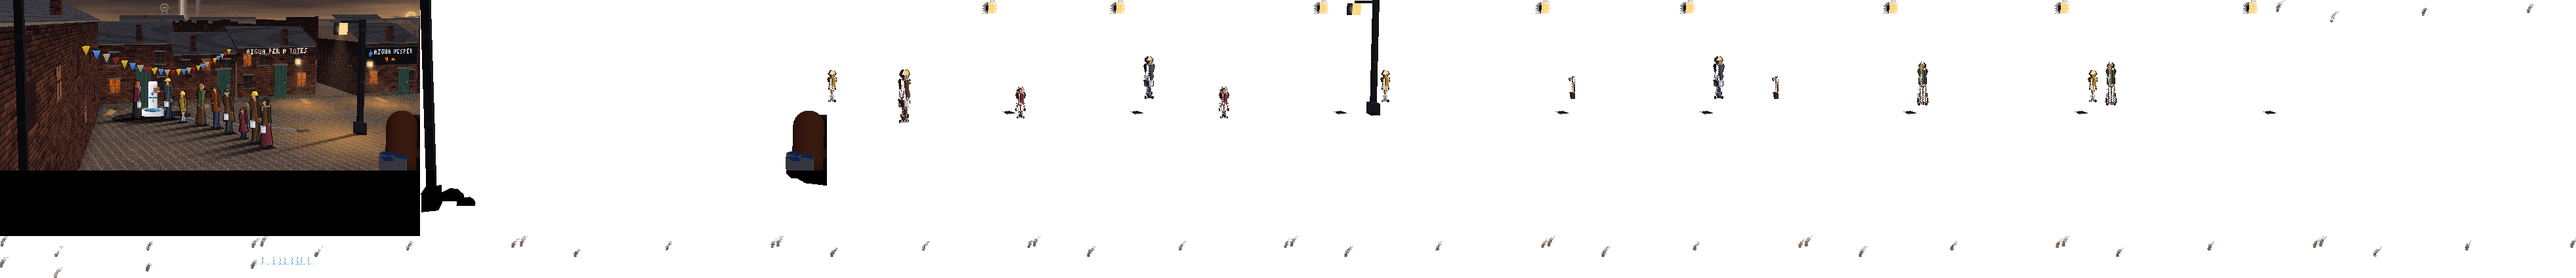
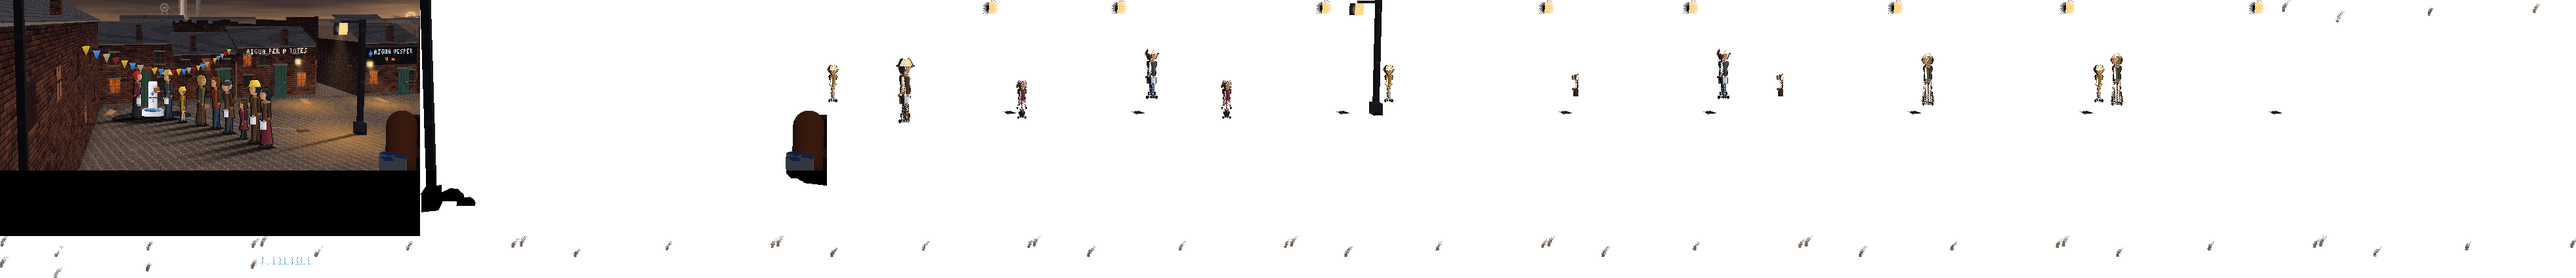
Aigua Verne: la cua dels postcrèdits, a la mida dels personatges
Els adults de la cua de la font feien 76–82 px i les criatures 52–58, amb el cap petit: al costat de la Rosa
(≈98) semblaven d'una altra escala. Ara els grans fan 93–99 i la canalla ≈0,7 d'un adult, amb el cap més gran i
el cos prim, com els personatges (cap/ample de persona_c); les ombres, una mica més estretes.

diff --git a/games/aigua-verne/adapters/benne/tools/hd640/rooms/postcredits.py b/games/aigua-verne/adapters/benne/tools/hd640/rooms/postcredits.py
@@ -348,16 +348,17 @@ def _lloc(i, n=8):
     return x, z
 
 
+# (a la mida dels personatges, que fan ≈98: els grans 93–99 i la canalla ≈0,7; el cap gran i el cos prim, com ells)
 CUA = [
-    (FONT[0] - 32, FONT[1] - 4, 76, 0, dict(tipus='dona', facing=1, hold='bidon'), {}),                 # omple la garrafa
-    (*_lloc(0), 81, 0, dict(tipus='miner', hold='bidon'), {3: dict(facing=1), 4: dict(facing=1)}),
-    (*_lloc(1), 58, 1, dict(tipus='nen', lamp=False), {1: dict(facing=1), 6: dict(facing=1), 7: dict(facing=1)}),
-    (*_lloc(2), 79, 1, dict(tipus='dona', facing=1), {5: dict(facing=-1), 6: dict(facing=-1)}),     # fa petar la xerrada
-    (*_lloc(3), 78, 2, dict(tipus='miner', cua=True, hold='butxaca'), {}),
-    (*_lloc(4), 77, 1, dict(tipus='vell', hold='bidon'), {2: dict(hold='got'), 3: dict(hold='got')}),
-    (*_lloc(5), 52, 0, dict(tipus='nena'), {0: dict(facing=1), 4: dict(facing=1)}),
-    (*_lloc(6), 82, 3, dict(tipus='miner', hold='bidon', lamp=False), {7: dict(facing=1)}),
-    (*_lloc(7), 77, 3, dict(tipus='dona', hold='bidon'), {}),
+    (FONT[0] - 32, FONT[1] - 4, 96, 0, dict(tipus='dona', facing=1, hold='bidon'), {}),                 # omple la garrafa
+    (*_lloc(0), 98, 0, dict(tipus='miner', hold='bidon'), {3: dict(facing=1), 4: dict(facing=1)}),
+    (*_lloc(1), 68, 1, dict(tipus='nen', lamp=False), {1: dict(facing=1), 6: dict(facing=1), 7: dict(facing=1)}),
+    (*_lloc(2), 95, 1, dict(tipus='dona', facing=1), {5: dict(facing=-1), 6: dict(facing=-1)}),     # fa petar la xerrada
+    (*_lloc(3), 96, 2, dict(tipus='miner', cua=True, hold='butxaca'), {}),
+    (*_lloc(4), 93, 1, dict(tipus='vell', hold='bidon'), {2: dict(hold='got'), 3: dict(hold='got')}),
+    (*_lloc(5), 64, 0, dict(tipus='nena'), {0: dict(facing=1), 4: dict(facing=1)}),
+    (*_lloc(6), 99, 3, dict(tipus='miner', hold='bidon', lamp=False), {7: dict(facing=1)}),
+    (*_lloc(7), 94, 3, dict(tipus='dona', hold='bidon'), {}),
 ]
 CUA_N = 8
 
@@ -365,15 +366,17 @@ CUA_N = 8
 @functools.lru_cache(maxsize=None)
 def _figura(h, var, kw):
     cv = Canvas(70, 110, light=TEXL, transparent=True)
-    k = dict(facing=-1, light_from=1)
-    k.update(dict(kw))
+    kw = dict(kw)
+    nen = kw.get('tipus') in ('nen', 'nena')
+    k = dict(facing=-1, light_from=1, cap=4.6 if nen else 4.8, ample=0.085 if nen else 0.08)
+    k.update(kw)
     persona_c(cv, 35, 104, h=h, var=var, **k)
     return cv.img
 
 
 def cua(e, f=None):
     for i, (x, z, h, var, ex, gestos) in sorted(enumerate(CUA), key=lambda p: -p[1][1]):
-        ombra(e, x, z, 13 * h / 80, h, 0.45)
+        ombra(e, x, z, 11 * h / 80, h, 0.45)
     for i, (x, z, h, var, ex, gestos) in sorted(enumerate(CUA), key=lambda p: -p[1][1]):
         kw = dict(ex)
         if f is not None:
